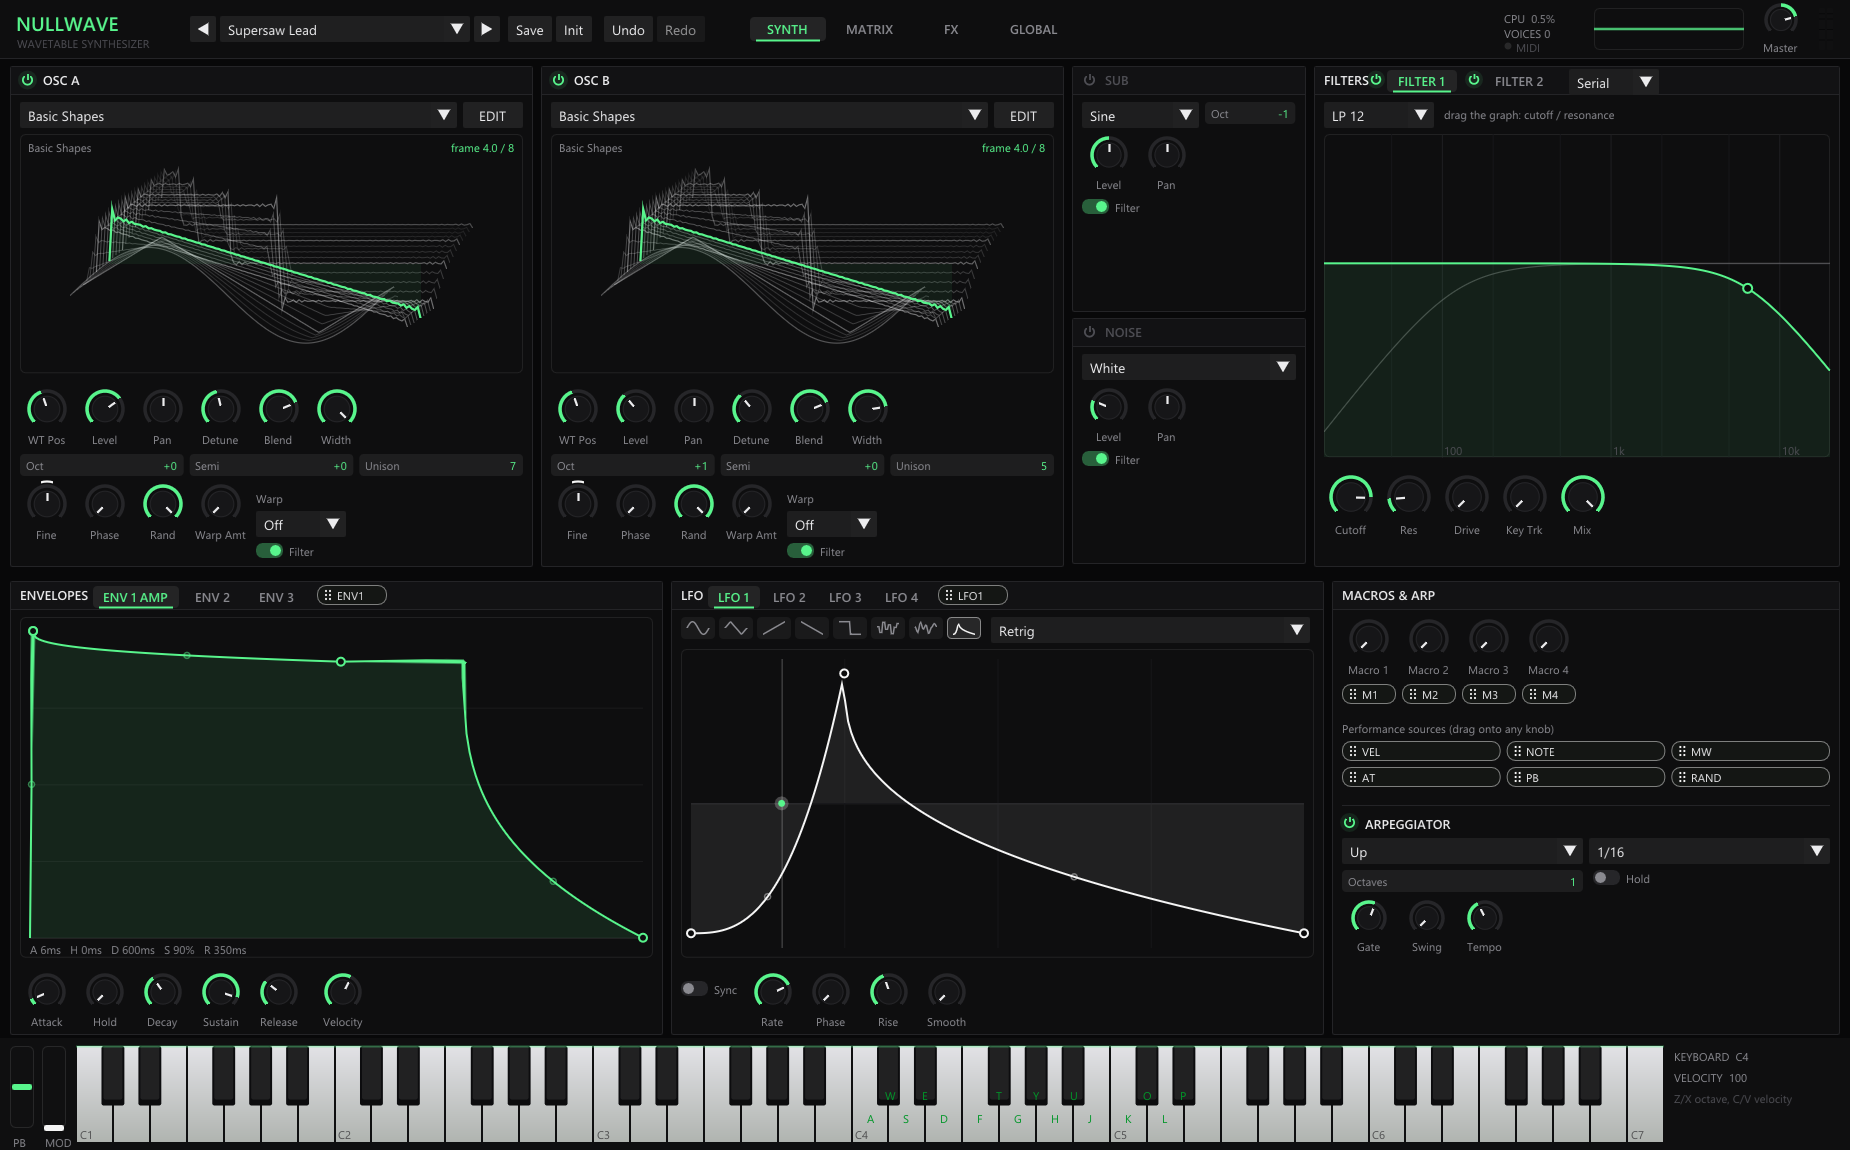
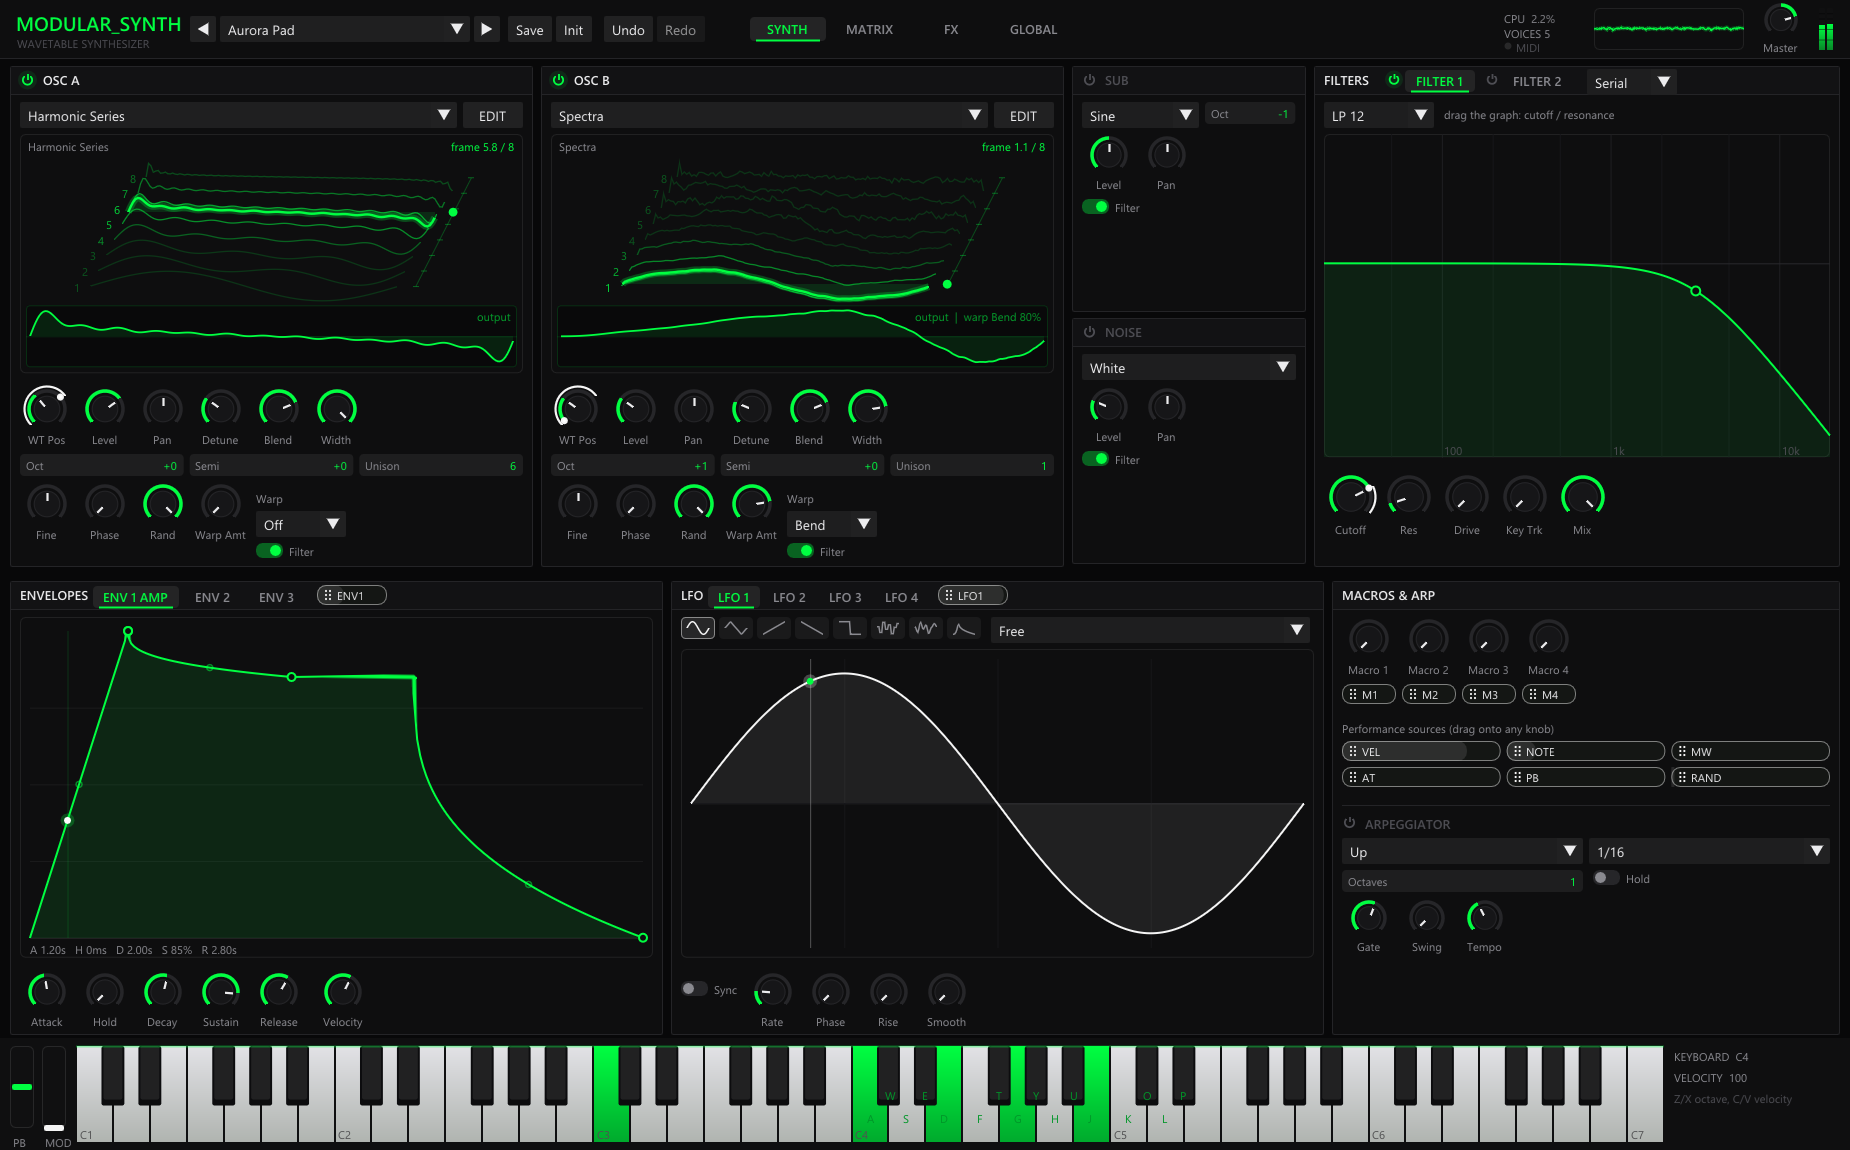
Neon green accent; readable wavetable view with 2D output strip
- Accent is neon green (#00FF41); modulation stays white
- Wavetable view: only the 8 real frames, numbered, spaced apart and
  fading with distance from the playing position; playing frame filled
  and marked on a depth rail; 2D strip of the exact output waveform with
  warp applied; double-click shows the 2D view only

diff --git a/app/ui/Views.cpp b/app/ui/Views.cpp
@@ -30,21 +30,24 @@ static void frameBg(ImDrawList* dl, ImVec2 a, ImVec2 b)
 }
 
 // ---------------------------------------------------------------------
-// 3D wavetable
+// Wavetable view
+//
+// Top: the 8 frames in an oblique 3D stack (frame 1 at the front), numbered,
+// fading with distance from the playing position, which is filled and marked
+// on a depth rail. Bottom: a 2D strip of the exact waveform being played,
+// with warp applied, like Serum's 2D view.
 // ---------------------------------------------------------------------
 namespace {
-constexpr int SLICES = 29;   // 8 frames + 3 interpolated slices between each pair
-constexpr int PTS = 112;
+constexpr int PTS = 128;    // per frame in the 3D stack
+constexpr int PTS2 = 256;   // in the 2D strip
 
 struct WtCache {
     const WavetableSet* src = nullptr;
-    size_t generation = 0;
-    float slice[SLICES][PTS];
     float frames[WT_FRAMES][PTS];
 };
 WtCache gCache[3];
 
-struct WtViewState { float yaw = 0.9f, pitch = 0.8f; bool flat = false; };
+struct WtViewState { float yaw = 0.45f, pitch = 1.1f; bool flat = false; };
 WtViewState gView[3];
 
 void buildCache(WtCache& c, const WavetableSet* wt)
@@ -55,12 +58,36 @@ void buildCache(WtCache& c, const WavetableSet* wt)
         const float* t = wt->mips.empty() ? wt->frame(f) : wt->table(level, f);
         for (int i = 0; i < PTS; ++i) c.frames[f][i] = t[i * WT_SIZE / PTS];
     }
-    for (int k = 0; k < SLICES; ++k) {
-        float fp = (float)k / (SLICES - 1) * (WT_FRAMES - 1);
-        int f0 = std::min((int)fp, WT_FRAMES - 1), f1 = std::min(f0 + 1, WT_FRAMES - 1);
-        float t = fp - f0;
-        for (int i = 0; i < PTS; ++i) c.slice[k][i] = c.frames[f0][i] + (c.frames[f1][i] - c.frames[f0][i]) * t;
+}
+
+// Same phase warps as the oscillator (Voice.cpp), for display.
+float warpPhaseUi(float p, int warp, float amt)
+{
+    switch (warp) {
+        case 1: if (std::fabs(amt - 0.5f) > 1e-3f) p = std::pow(p, std::exp2((amt - 0.5f) * 4.0f)); break;
+        case 2: { float w = 0.5f - amt * 0.47f; p = p < w ? p * (0.5f / w) : 0.5f + (p - w) * (0.5f / (1.0f - w)); break; }
+        case 3: p = frac01(p * (1.0f + amt * 7.0f)); break;
+        case 4: p = p + ((p < 0.5f ? p : 1.0f - p) - p) * amt; break;
+        default: break;
     }
+    return std::clamp(p, 0.0f, 0.99999f);
+}
+
+float readTable(const WavetableSet* wt, int level, float pos, float phase)
+{
+    float fp = pos * (WT_FRAMES - 1);
+    int f0 = std::min((int)fp, WT_FRAMES - 1), f1 = std::min(f0 + 1, WT_FRAMES - 1);
+    float ff = fp - f0;
+    auto at = [&](int f) {
+        const float* t = wt->mips.empty() ? wt->frame(f) : wt->table(level, f);
+        float idx = phase * WT_SIZE;
+        int i0 = (int)idx;
+        float fr = idx - i0;
+        int i1 = wt->mips.empty() ? (i0 + 1) % WT_SIZE : i0 + 1;
+        return t[i0] + (t[i1] - t[i0]) * fr;
+    };
+    float a = at(f0), b = at(f1);
+    return a + (b - a) * ff;
 }
 } // namespace
 
@@ -74,11 +101,11 @@ void WavetableView(UiState& ui, int osc, ImVec2 size, const WavetableSet* overri
     WtViewState& vs = gView[vi];
     if (ImGui::IsItemActive() && ImGui::IsMouseDragging(ImGuiMouseButton_Left, 1.0f)) {
         vs.yaw = std::clamp(vs.yaw + ImGui::GetIO().MouseDelta.x * 0.008f, -1.4f, 1.4f);
-        vs.pitch = std::clamp(vs.pitch + ImGui::GetIO().MouseDelta.y * 0.006f, 0.05f, 1.35f);
+        vs.pitch = std::clamp(vs.pitch + ImGui::GetIO().MouseDelta.y * 0.006f, 0.25f, 1.35f);
     }
     if (ImGui::IsItemHovered() && ImGui::IsMouseDoubleClicked(ImGuiMouseButton_Left)) vs.flat = !vs.flat;
     if (ImGui::IsItemHovered() && !ImGui::IsItemActive() && ImGui::GetCurrentContext()->HoveredIdTimer > 0.8f)
-        ImGui::SetTooltip("Drag to rotate, double-click for %s view", vs.flat ? "3D" : "2D");
+        ImGui::SetTooltip("Drag to tilt the stack, double-click for %s", vs.flat ? "3D + 2D" : "2D only");
 
     frameBg(dl, a, b);
     dl->PushClipRect(a, b, true);
@@ -88,85 +115,122 @@ void WavetableView(UiState& ui, int osc, ImVec2 size, const WavetableSet* overri
     WtCache& c = gCache[vi];
     if (c.src != wt || overrideTable) buildCache(c, wt);
 
+    const bool live = ui.s.telemetry.displayVoiceActive.load(std::memory_order_relaxed);
     float pos;
     if (overridePos >= 0.0f) pos = overridePos;
-    else {
-        bool live = ui.s.telemetry.displayVoiceActive.load(std::memory_order_relaxed);
-        pos = live ? ui.s.telemetry.oscPos[osc].load(std::memory_order_relaxed)
-                   : ui.s.params.norm(oscParam(osc, P::OSCA_POS));
-    }
+    else pos = live ? ui.s.telemetry.oscPos[osc].load(std::memory_order_relaxed)
+                    : ui.s.params.norm(oscParam(osc, P::OSCA_POS));
     pos = std::clamp(pos, 0.0f, 1.0f);
 
-    // current waveform (interpolated between source frames)
-    float cur[PTS];
-    {
-        float fp = pos * (WT_FRAMES - 1);
-        int f0 = std::min((int)fp, WT_FRAMES - 1), f1 = std::min(f0 + 1, WT_FRAMES - 1);
-        float t = fp - f0;
-        for (int i = 0; i < PTS; ++i) cur[i] = c.frames[f0][i] + (c.frames[f1][i] - c.frames[f0][i]) * t;
-    }
+    // warp as currently heard (modulated when a voice is playing)
+    int warp = (int)ui.s.params.value(oscParam(osc, P::OSCA_WARP));
+    P amtP = oscParam(osc, P::OSCA_WARPAMT);
+    float warpAmt = live ? paramInfo(amtP).toValue(ui.s.telemetry.modNorm[(int)amtP].load(std::memory_order_relaxed))
+                         : ui.s.params.value(amtP);
 
-    const ImVec2 ctr((a.x + b.x) * 0.5f, (a.y + b.y) * 0.5f);
-    const float W = size.x, H = size.y;
-    ImVec2 pts[PTS];
+    const float W = size.x;
+    const float stripH = vs.flat ? size.y - 22.0f : std::floor(size.y * 0.26f);
+    const float stackH = vs.flat ? 0.0f : size.y - stripH - 22.0f;
+    const ImU32 green = theme::accent;
 
-    if (vs.flat) {
-        for (int f = 0; f < WT_FRAMES; ++f) {
-            for (int i = 0; i < PTS; ++i)
-                pts[i] = ImVec2(a.x + 8 + (W - 16) * i / (PTS - 1), ctr.y - c.frames[f][i] * H * 0.38f);
-            dl->AddPolyline(pts, PTS, theme::withAlpha(theme::accent, 0.12f), 0, 1.0f);
-        }
-        for (int i = 0; i < PTS; ++i)
-            pts[i] = ImVec2(a.x + 8 + (W - 16) * i / (PTS - 1), ctr.y - cur[i] * H * 0.38f);
-        dl->AddLine(ImVec2(a.x, ctr.y), ImVec2(b.x, ctr.y), theme::rgba(40, 40, 41));
-        dl->AddPolyline(pts, PTS, theme::withAlpha(theme::accent, 0.25f), 0, 6.0f);
-        dl->AddPolyline(pts, PTS, theme::accent, 0, 2.0f);
-    } else {
-        // Oblique projection: frame 1 at the front (bottom-left), frame 8 at the back
-        // (top-right). Drag changes the depth direction; slices are drawn back to front,
-        // each filled to its baseline so it hides the ones behind it.
-        const float dx = W * 0.22f * (vs.yaw / 1.4f) + W * 0.04f;
-        const float dy = H * 0.52f * (vs.pitch / 1.35f);
-        const float sx = W * 0.40f - std::fabs(dx) * 0.5f, ampY = H * 0.20f;
-        const ImVec2 origin(ctr.x - dx * 0.5f, ctr.y + dy * 0.5f + H * 0.02f);
-        auto project = [&](float x, float z, float y) {
-            return ImVec2(origin.x + x * sx + z * dx, origin.y - y * ampY - z * dy);
-        };
-
-        // Slices are lines only, so every frame stays visible through the others;
-        // the playing slice alone gets a faint translucent fill to its zero line.
-        auto drawSlice = [&](const float* data, float z, ImU32 lineCol, float thick, bool fill) {
-            for (int i = 0; i < PTS; ++i) pts[i] = project((float)i / (PTS - 1) * 2.0f - 1.0f, z, data[i]);
-            if (fill) {
-                NoAAFill noaa(dl);
-                for (int i = 1; i < PTS; ++i) {
-                    ImVec2 z0 = project((float)(i - 1) / (PTS - 1) * 2.0f - 1.0f, z, 0.0f);
-                    ImVec2 z1 = project((float)i / (PTS - 1) * 2.0f - 1.0f, z, 0.0f);
-                    dl->AddQuadFilled(pts[i - 1], pts[i], z1, z0, theme::withAlpha(theme::accent, 0.07f));
-                }
-            }
-            dl->AddPolyline(pts, PTS, lineCol, 0, thick);
-        };
-
-        for (int k = SLICES - 1; k >= 0; --k) {
-            float z = (float)k / (SLICES - 1);
-            bool isFrame = k % 4 == 0;
-            float near = 1.0f - std::fabs(z - pos) * 2.0f;
-            float alpha = 0.10f + (isFrame ? 0.18f : 0.0f) + std::max(near, 0.0f) * 0.22f;
-            drawSlice(c.slice[k], z, theme::withAlpha(theme::text, alpha), isFrame ? 1.2f : 1.0f, false);
-        }
-        drawSlice(cur, pos, theme::accent, 2.2f, true);   // playing position, on top
-    }
-
-    // labels
+    // ---- header labels ----
     ImGui::PushFont(theme::fontSmall);
+    dl->AddText(ImVec2(a.x + 8, a.y + 4), theme::textDim, wt->name.c_str());
     char buf[64];
-    std::snprintf(buf, sizeof buf, "%s", wt->name.c_str());
-    dl->AddText(ImVec2(a.x + 8, a.y + 5), theme::textDim, buf);
-    std::snprintf(buf, sizeof buf, "frame %.1f / 8", pos * (WT_FRAMES - 1) + 1.0f);
+    std::snprintf(buf, sizeof buf, "frame %.1f / %d", pos * (WT_FRAMES - 1) + 1.0f, WT_FRAMES);
     ImVec2 ts = ImGui::CalcTextSize(buf);
-    dl->AddText(ImVec2(b.x - ts.x - 8, a.y + 5), theme::accent, buf);
+    dl->AddText(ImVec2(b.x - ts.x - 8, a.y + 4), green, buf);
     ImGui::PopFont();
+
+    // ---- 3D stack ----
+    if (!vs.flat) {
+        const float top = a.y + 20.0f, H = stackH;
+        const float dx = W * 0.22f * (vs.yaw / 1.4f) + W * 0.04f;
+        const float dy = H * 0.86f * (vs.pitch / 1.35f);
+        const float sx = W * 0.36f - std::fabs(dx) * 0.5f, ampY = H * 0.095f;
+        const ImVec2 origin(a.x + W * 0.5f - dx * 0.5f, top + H * 0.5f + dy * 0.5f);
+        auto project = [&](float x, float z, float y) { return ImVec2(origin.x + x * sx + z * dx, origin.y - y * ampY - z * dy); };
+
+        ImVec2 pts[PTS];
+        auto framePts = [&](const float* data, float z) {
+            for (int i = 0; i < PTS; ++i) pts[i] = project((float)i / (PTS - 1) * 2.0f - 1.0f, z, data[i]);
+        };
+
+        // depth rail on the right, with the position marker
+        ImVec2 r0 = project(1.12f, 0.0f, 0.0f), r1 = project(1.12f, 1.0f, 0.0f);
+        dl->AddLine(r0, r1, theme::withAlpha(green, 0.25f), 1.0f);
+        for (int f = 0; f < WT_FRAMES; ++f) {
+            ImVec2 t = project(1.12f, (float)f / (WT_FRAMES - 1), 0.0f);
+            dl->AddLine(ImVec2(t.x - 3, t.y), ImVec2(t.x + 3, t.y), theme::withAlpha(green, 0.35f));
+        }
+
+        // frames, back to front, fading with distance from the playing position
+        ImGui::PushFont(theme::fontSmall);
+        for (int f = WT_FRAMES - 1; f >= 0; --f) {
+            float z = (float)f / (WT_FRAMES - 1);
+            float near = std::max(0.0f, 1.0f - std::fabs(z - pos) * 2.5f);
+            float alpha = 0.16f + 0.5f * near;
+            framePts(c.frames[f], z);
+            dl->AddPolyline(pts, PTS, theme::withAlpha(green, alpha), 0, 1.3f);
+            char n[4];
+            std::snprintf(n, sizeof n, "%d", f + 1);
+            ImVec2 lp = project(-1.0f, z, 0.0f);
+            dl->AddText(ImVec2(lp.x - 16, lp.y - 7), theme::withAlpha(green, 0.3f + 0.6f * near), n);
+        }
+        ImGui::PopFont();
+
+        // playing position: interpolated frame, filled, on top
+        float cur[PTS];
+        {
+            float fp = pos * (WT_FRAMES - 1);
+            int f0 = std::min((int)fp, WT_FRAMES - 1), f1 = std::min(f0 + 1, WT_FRAMES - 1);
+            float t = fp - f0;
+            for (int i = 0; i < PTS; ++i) cur[i] = c.frames[f0][i] + (c.frames[f1][i] - c.frames[f0][i]) * t;
+        }
+        framePts(cur, pos);
+        {
+            NoAAFill noaa(dl);
+            for (int i = 1; i < PTS; ++i) {
+                ImVec2 z0 = project((float)(i - 1) / (PTS - 1) * 2.0f - 1.0f, pos, 0.0f);
+                ImVec2 z1 = project((float)i / (PTS - 1) * 2.0f - 1.0f, pos, 0.0f);
+                dl->AddQuadFilled(pts[i - 1], pts[i], z1, z0, theme::withAlpha(green, 0.12f));
+            }
+        }
+        dl->AddPolyline(pts, PTS, theme::withAlpha(green, 0.25f), 0, 7.0f);
+        dl->AddPolyline(pts, PTS, green, 0, 2.4f);
+        ImVec2 m = project(1.12f, pos, 0.0f);
+        dl->AddCircleFilled(m, 4.5f, green);
+    }
+
+    // ---- 2D strip: what the oscillator plays, warp included ----
+    {
+        ImVec2 sa(a.x + 6, b.y - stripH - 6), sb(b.x - 6, b.y - 6);
+        dl->AddRectFilled(sa, sb, theme::rgba(9, 9, 10), 3.0f);
+        dl->AddRect(sa, sb, theme::withAlpha(green, 0.15f), 3.0f);
+        float mid = (sa.y + sb.y) * 0.5f, amp = (sb.y - sa.y) * 0.42f;
+        dl->AddLine(ImVec2(sa.x, mid), ImVec2(sb.x, mid), theme::withAlpha(green, 0.12f));
+        ImVec2 p2[PTS2];
+        const int level = 2;
+        for (int i = 0; i < PTS2; ++i) {
+            float ph = (float)i / PTS2;
+            float v = readTable(wt, level, pos, (warp == 0 || warp == 5) ? ph : warpPhaseUi(ph, warp, warpAmt));
+            if (warp == 5) v = std::sin(v * (1.0f + warpAmt * 5.0f) * dsp::PI * 0.5f);
+            p2[i] = ImVec2(sa.x + 4 + (sb.x - sa.x - 8) * i / (PTS2 - 1), mid - std::clamp(v, -1.1f, 1.1f) * amp);
+        }
+        {
+            NoAAFill noaa(dl);
+            for (int i = 1; i < PTS2; ++i)
+                dl->AddQuadFilled(p2[i - 1], p2[i], ImVec2(p2[i].x, mid), ImVec2(p2[i - 1].x, mid), theme::withAlpha(green, 0.10f));
+        }
+        dl->AddPolyline(p2, PTS2, green, 0, 1.8f);
+        ImGui::PushFont(theme::fontSmall);
+        char lab[48];
+        if (warp == 0) std::snprintf(lab, sizeof lab, "output");
+        else std::snprintf(lab, sizeof lab, "output  |  warp %s %.0f%%", kWarpModes[std::clamp(warp, 0, 5)], warpAmt * 100.0f);
+        ImVec2 ls = ImGui::CalcTextSize(lab);
+        dl->AddText(ImVec2(sb.x - ls.x - 6, sa.y + 3), theme::withAlpha(green, 0.6f), lab);
+        ImGui::PopFont();
+    }
 
     dl->PopClipRect();
     ImGui::PopID();

diff --git a/app/ui/Theme.h b/app/ui/Theme.h
@@ -3,7 +3,7 @@
 #include "imgui.h"
 
 // modular_synth visual language: near-black neutrals, white text, one green
-// accent for values, white for modulation. Flat and minimal.
+// accent (neon green) for values, white for modulation. Flat and minimal.
 namespace theme {
 
 inline ImU32 rgba(int r, int g, int b, int a = 255) { return IM_COL32(r, g, b, a); }
@@ -18,9 +18,9 @@ inline const ImU32 knobBodyHi  = rgba(32, 32, 35);
 inline const ImU32 text        = rgba(236, 236, 238);
 inline const ImU32 textDim     = rgba(138, 138, 144);
 inline const ImU32 textFaint   = rgba(78, 78, 84);
-inline const ImU32 accent      = rgba(88, 245, 140);     // green accent: values
-inline const ImU32 accentDim   = rgba(88, 245, 140, 90);
-inline const ImU32 accentFaint = rgba(88, 245, 140, 24);
+inline const ImU32 accent      = rgba(0, 255, 65);       // neon green: values
+inline const ImU32 accentDim   = rgba(0, 255, 65, 90);
+inline const ImU32 accentFaint = rgba(0, 255, 65, 24);
 inline const ImU32 mod         = rgba(245, 245, 245);    // white: modulation
 inline const ImU32 modDim      = rgba(245, 245, 245, 120);
 inline const ImU32 modFaint    = rgba(245, 245, 245, 28);

diff --git a/app/ui/Views.h b/app/ui/Views.h
@@ -8,8 +8,9 @@
 // the audio thread directly.
 namespace views {
 
-// 3D wavetable: frames recede into depth, the playing position glows.
-// Drag to rotate, double-click to toggle 2D/3D.
+// Wavetable: numbered 3D frame stack with the playing position filled and
+// marked, plus a 2D strip of the exact output waveform (warp included).
+// Drag to tilt, double-click for the 2D view only.
 void WavetableView(UiState& ui, int osc, ImVec2 size, const WavetableSet* overrideTable = nullptr, float overridePos = -1.0f);
 
 void EnvelopeEditor(UiState& ui, int env, ImVec2 size);   // draggable nodes and curves

diff --git a/app/ui/Theme.cpp b/app/ui/Theme.cpp
@@ -76,7 +76,7 @@ void apply()
     c[ImGuiCol_ScrollbarGrabActive]  = f(accentDim);
     c[ImGuiCol_CheckMark]            = f(accent);
     c[ImGuiCol_SliderGrab]           = f(accent);
-    c[ImGuiCol_SliderGrabActive]     = f(rgba(150, 250, 185));
+    c[ImGuiCol_SliderGrabActive]     = f(rgba(120, 255, 150));
     c[ImGuiCol_Button]               = f(rgba(33, 33, 34));
     c[ImGuiCol_ButtonHovered]        = f(rgba(45, 45, 46));
     c[ImGuiCol_ButtonActive]         = f(rgba(55, 55, 56));

diff --git a/docs/DEVLOG.md b/docs/DEVLOG.md
@@ -96,6 +96,16 @@ design, miniaudio, RtMidi, the WAV render approach.
 - Zero-allocation test now runs with everything on: arp, both filters, custom
   LFO, all 8 effects in reversed order.
 
+### Round 3: readability and identity
+- Renamed to **modular_synth**.
+- Accent switched to neon green (#00FF41); modulation stays white.
+- Wavetable view rebuilt for readability, modeled on how Serum presents
+  wavetables: only the 8 real frames (was 29 lines including interpolated
+  slices), numbered, spaced apart and fading with distance from the playing
+  position; the playing frame is filled and marked on a depth rail; a 2D
+  strip below shows the exact output waveform with the warp mode applied
+  (same phase-warp math as the oscillator).
+
 ### Progress
 - [x] Worktree + feature branch (original project untouched)
 - [x] Engine: params, wavetables, voices, mod matrix, FX
